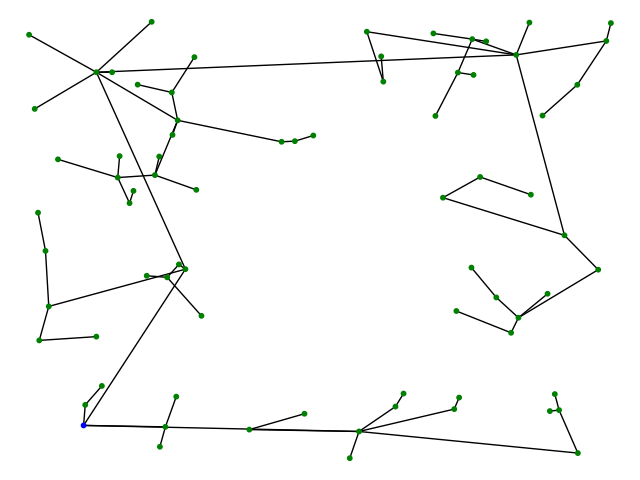
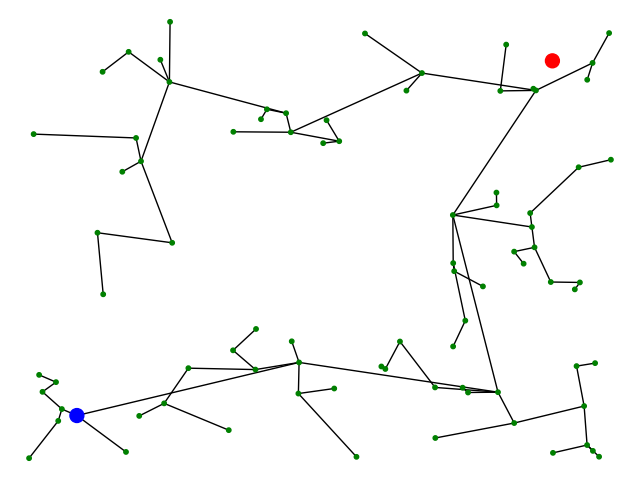
Added the start and goal. Just need to draw the box now.

diff --git a/pset4/rrt.py b/pset4/rrt.py
@@ -61,18 +61,24 @@ if __name__ == "__main__":
     vertices, edges = getTree(100)
     G = nx.Graph()
     color = []
+    node_size = []
     for i in range(len(vertices)):
         if i == 0:
             G.add_node(vertices[i], pos=vertices[i])
             color.append('blue')
+            node_size.append(100)
         else:
             G.add_node(vertices[i], pos=vertices[i])
             color.append('green')
-    # G.add_nodes_from(vertices)
+            node_size.append(10)
+    goal = (9, 9)
+    G.add_node((9, 9), pos=(9, 9))
+    color.append('red')
+    node_size.append(100)
     G.add_edges_from(edges)
-    options = {'node_size':10, 'with_labels':False}
+    # options = {'node_size':10, 'with_labels':False}
     pos=nx.get_node_attributes(G,'pos')
-    nx.draw(G, pos=pos, node_color=color, **options)
+    nx.draw(G, pos=pos, node_color=color, node_size=node_size)
     plt.savefig("rrt.png")
     plt.show()
     
